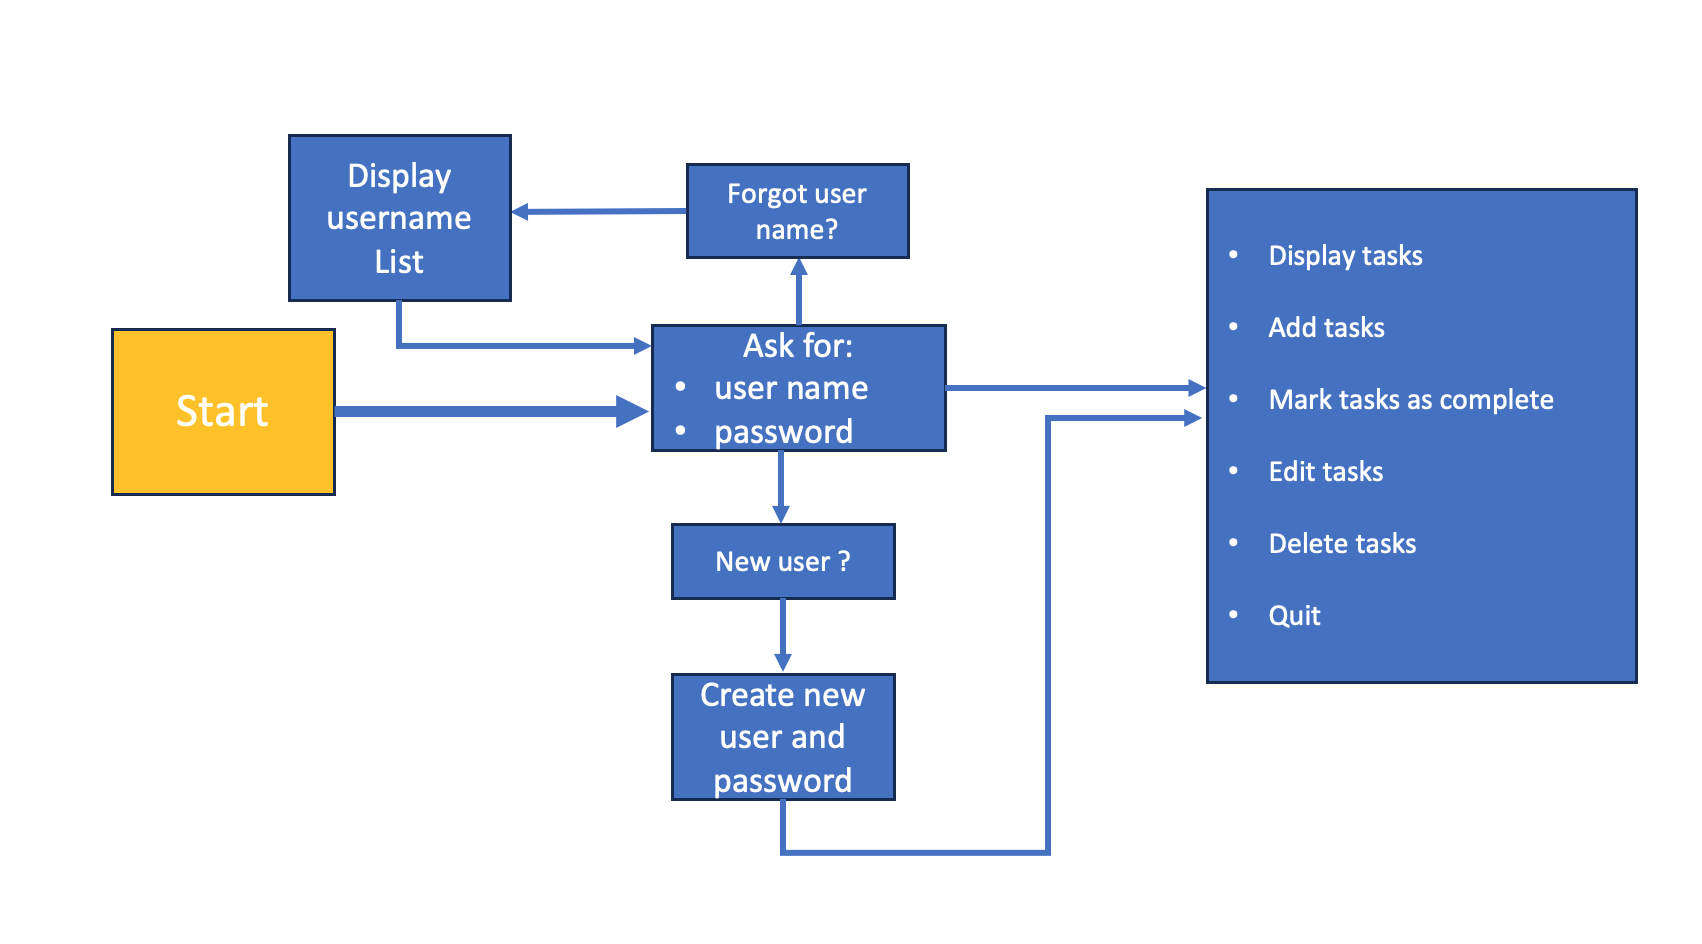
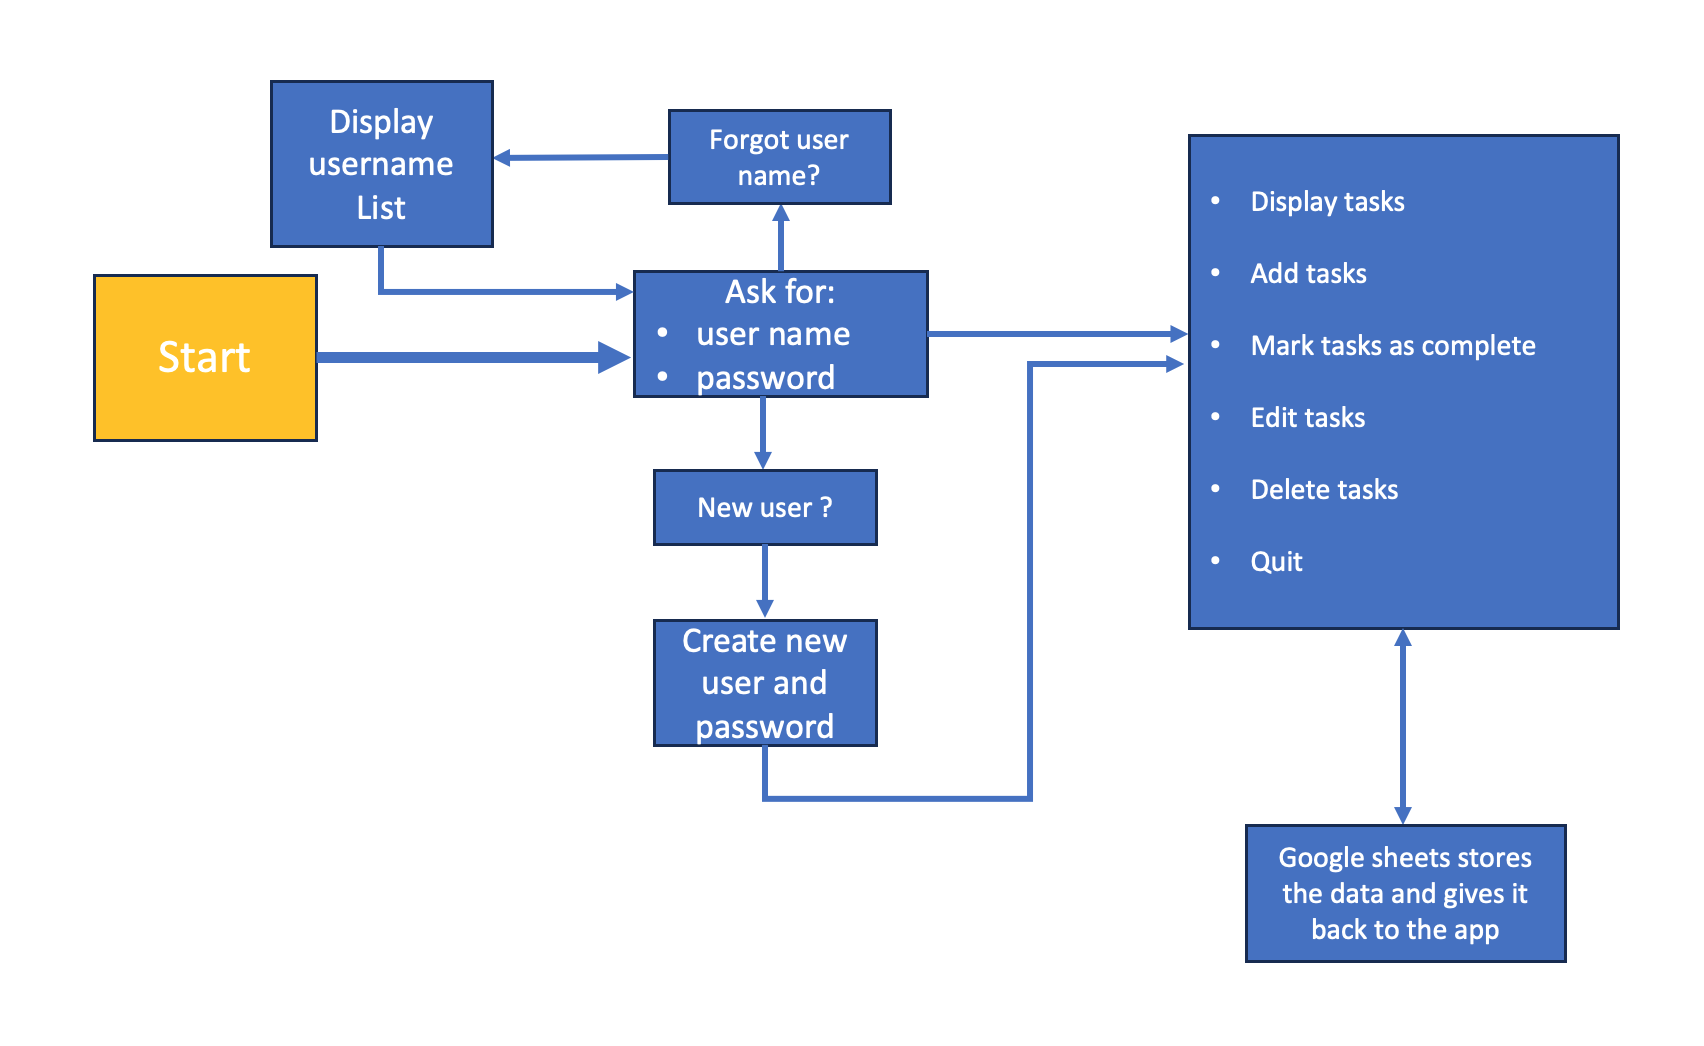
add mock usernames and corrected typos in the README file

Changed region(s): [[0.0311, 0.0614, 0.9653, 0.9216]]

diff --git a/run.py b/run.py
@@ -276,7 +276,7 @@ def menu(user):
     while True:
         options = [" Display Tasks ",
                    " Add Task ", " Mark Task as Complete ",
-                   " Edit task ", " Delete Task ", " Quit "]
+                   " Edit Task ", " Delete Task ", " Quit "]
         terminal_menu = TerminalMenu(options,
                                      title=("\nEnter your choice:\n"),
                                      menu_cursor=(None),
@@ -291,7 +291,7 @@ def menu(user):
             add_task(user)
         elif options[menu_entry_index] == " Mark Task as Complete ":
             mark_complete(worksheet, user)
-        elif options[menu_entry_index] == " Edit task ":
+        elif options[menu_entry_index] == " Edit Task ":
             edit_task(worksheet, user)
         elif options[menu_entry_index] == " Delete Task ":
             delete_task(worksheet, user)

diff --git a/README.md b/README.md
@@ -23,9 +23,22 @@ Through the progression of the app, the user will go through the following:
   - Display Tasks 
   - Add Task 
   - Mark Task as Complete
+  - Edit Task
   - Delete Task
   - Quit 
 - Through this self explanatory simple menu, the user will be alble to manage all the tasks they need.
+- The app is connected to the google sheets where the data is stored and edited.
+
+NOTE: I created 5 mock user names that can me accessed and changed in order for anyone to explore and learn to work with the app. Here are their user names and passwords:
+
+| User Name | Password |
+| -----| ----- |
+| Alice | try13 |
+| Bob | try14 |
+| Carol | try15 |
+| David | try16 |
+| Emily | try17 |
+
 
 ## Features 
 ------
@@ -149,8 +162,8 @@ The application was deployed to [Heroku](https://www.heroku.com/) and can be acc
     - value: `8000`
     ----
     - key: `CREDS`
-    - value: copied and paste the content of the creds.json file
-    Note: The content in the creds.json file is private, so it wont be shared.
+    - value: copied and pasted the content of the `creds.jso` file
+      - Note: The content in the creds.json file is private, so it wont be shared.
 
 9. At the "Buildpacks" section, click on the "Add" button and choose:
 
@@ -170,7 +183,7 @@ The application was deployed to [Heroku](https://www.heroku.com/) and can be acc
 
 15. Enable automatic deployment
 
-16. The app can now accessed by pressing the `open app` button or throu the link found in the settings, in the domain section.[Multi User Task Manager](https://python-algorithm-visualizer.onrender.com/)
+16. The app can now accessed by pressing the `open app` button or through the link found in the settings, in the domain section. [Multi User Task Manager](https://python-algorithm-visualizer.onrender.com/)
 
 
 

diff --git a/TESTING.md b/TESTING.md
@@ -19,7 +19,7 @@ Every input in the application needs to have input validation, to check the user
 |  edit_task | Integer and then string  | whole number and then string | first strings and then empty string | changes a task name |
 |  delete_task | Integer | Whole number | strings or numbers above the number os tasks | deletes task |
 
-Every unaccepted input will send a specific error message explaing what was wrong. examples:
+Every unaccepted input will send a specific error message explaing what was wrong. Examples:
  - Invalid task number.
  - Invalid input. Please enter a valid task number.
  - Enter at least a single character to continue.
